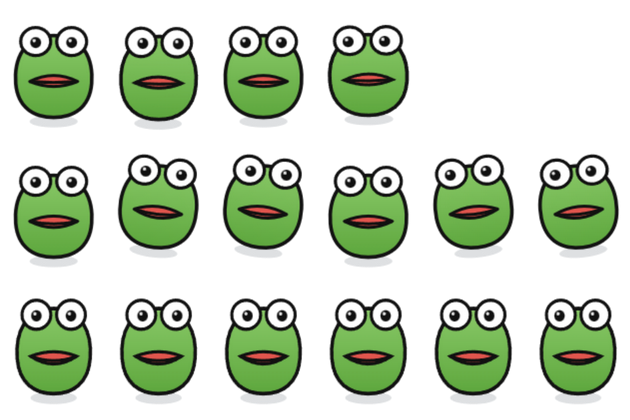
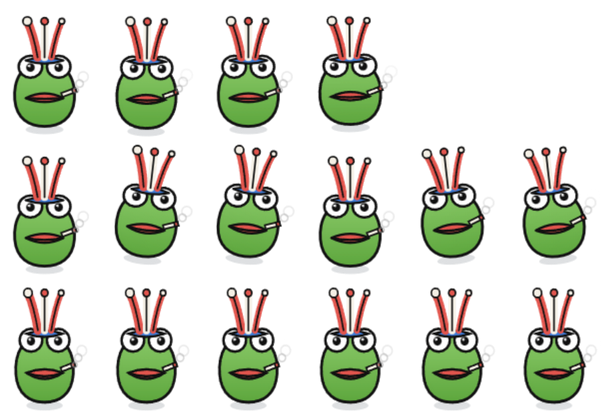
给抽象形象加装饰 + 新增学术企鹅
加装饰（原来只有一张脸，太空）：
  滑稽   墨镜推到额头上 + 脖子上金链子
  狗头   墨镜压在眼上 + 嘴里叼根骨头
  悲伤蛙 戴小丑帽（呼应「小丑竟是我自己」）+ 叼烟吐圈
  可达鸭 头顶冒问号（越慌越多）+ 旁边飞汗滴

新增学术企鹅：
  黑背白肚的企鹅 + 圆框金丝眼镜 + 熬夜的黑眼圈
  头上博士帽（方板 + 金色流苏，流苏会随呼吸晃）
  右翅举着一块大的「accepted」牌子（绿字 + 下划线）
  欢呼/跳舞时头顶撒纸屑

diff --git a/build/make-skins.js b/build/make-skins.js
@@ -969,6 +969,35 @@ function drawHuaji(ctx, q, p, kind) {
   ctx.fillStyle = 'rgba(255,120,110,.45)';
   ctx.beginPath(); ctx.ellipse(-27, -4, 8, 5.5, 0, 0, TAU); ctx.fill();
   ctx.beginPath(); ctx.ellipse(27, -4, 8, 5.5, 0, 0, TAU); ctx.fill();
+
+  /* 装饰：墨镜推到额头上 */
+  [-1, 1].forEach(function (sg) {
+    ctx.beginPath(); ctx.ellipse(sg * 16, -44, 12, 7.6, sg * 0.16, 0, TAU);
+    const lg = ctx.createLinearGradient(sg * 4, -50, sg * 28, -38);
+    lg.addColorStop(0, '#3A3A46'); lg.addColorStop(1, '#0A0A0F');
+    ctx.fillStyle = lg; ctx.fill();
+    ctx.lineWidth = 2.6; ctx.strokeStyle = '#F2F2F8'; ctx.stroke();
+    ctx.save(); ctx.clip();
+    ctx.strokeStyle = 'rgba(255,255,255,.85)'; ctx.lineWidth = 2.6; ctx.lineCap = 'round';
+    ctx.beginPath(); ctx.moveTo(sg * 8, -36); ctx.lineTo(sg * 22, -52); ctx.stroke();
+    ctx.restore();
+  });
+  ctx.strokeStyle = '#F2F2F8'; ctx.lineWidth = 2.6;
+  ctx.beginPath(); ctx.moveTo(-5, -45); ctx.lineTo(5, -45); ctx.stroke();
+  ctx.strokeStyle = 'rgba(17,17,17,.45)'; ctx.lineWidth = 4;
+  ctx.beginPath(); ctx.moveTo(-28, -42); ctx.lineTo(-39, -46); ctx.stroke();
+  ctx.beginPath(); ctx.moveTo(28, -42); ctx.lineTo(39, -46); ctx.stroke();
+  /* 装饰：金链子 */
+  ctx.strokeStyle = '#8A6A10'; ctx.lineWidth = 5.5;
+  ctx.beginPath(); ctx.moveTo(-30, 22); ctx.quadraticCurveTo(0, 46, 30, 22); ctx.stroke();
+  for (let i = 0; i <= 8; i++) {
+    const t = i / 8, bx = -30 + t * 60, by = 22 + Math.sin(t * Math.PI) * 24;
+    ctx.beginPath(); ctx.arc(bx, by, 3.4, 0, TAU);
+    const cg = ctx.createRadialGradient(bx - 1, by - 1.2, 0.3, bx, by, 3.8);
+    cg.addColorStop(0, '#FFF6C0'); cg.addColorStop(0.5, '#F5C542'); cg.addColorStop(1, '#A87508');
+    ctx.fillStyle = cg; ctx.fill();
+    ctx.lineWidth = 1.1; ctx.strokeStyle = '#6B4A06'; ctx.stroke();
+  }
 }
 
 /* ============================================================ ⑦ 狗头 */
@@ -1021,6 +1050,43 @@ function drawDoge(ctx, q, p, kind) {
   ctx.fillStyle = '#FF8AA0';
   ctx.beginPath(); ctx.ellipse(0, 26 + wow * 4, 6, 5 + wow * 3, 0, 0, TAU); ctx.fill();
   ctx.lineWidth = 2.4; ctx.strokeStyle = LINE; ctx.stroke();
+
+  /* 装饰：墨镜（压在眼上，露出一点点眼神） */
+  [-1, 1].forEach(function (sg) {
+    ctx.beginPath();
+    ctx.moveTo(sg * 24, -22);
+    ctx.quadraticCurveTo(sg * 13, -28, sg * 4, -23);
+    ctx.quadraticCurveTo(sg * 3, -10, sg * 13, -6);
+    ctx.quadraticCurveTo(sg * 23, -5, sg * 25, -14);
+    ctx.closePath();
+    const lg = ctx.createLinearGradient(sg * 4, -26, sg * 25, -6);
+    lg.addColorStop(0, '#3A3A46'); lg.addColorStop(0.45, '#15151C'); lg.addColorStop(1, '#08080C');
+    ctx.fillStyle = lg; ctx.fill();
+    ctx.lineWidth = 2.6; ctx.strokeStyle = '#F2F2F8'; ctx.stroke();
+    ctx.save(); ctx.clip();
+    ctx.strokeStyle = 'rgba(255,255,255,.85)'; ctx.lineWidth = 3; ctx.lineCap = 'round';
+    ctx.beginPath(); ctx.moveTo(sg * 5, -5); ctx.lineTo(sg * 20, -28); ctx.stroke();
+    ctx.restore();
+  });
+  ctx.fillStyle = '#15151C';
+  ctx.beginPath(); ctx.rect(-4.5, -24, 9, 4); ctx.fill();
+  ctx.lineWidth = 2.2; ctx.strokeStyle = '#F2F2F8'; ctx.stroke();
+  ctx.strokeStyle = '#F2F2F8'; ctx.lineWidth = 2.6;
+  ctx.beginPath(); ctx.moveTo(-24, -18); ctx.lineTo(-35, -24); ctx.stroke();
+  ctx.beginPath(); ctx.moveTo(24, -18); ctx.lineTo(35, -24); ctx.stroke();
+  /* 装饰：嘴里叼根骨头 */
+  ctx.save();
+  ctx.translate(16, 14); ctx.rotate(0.45);
+  ctx.fillStyle = '#F5EEDC';
+  ctx.beginPath(); ctx.rect(0, -3.4, 22, 6.8); ctx.fill();
+  ctx.lineWidth = 2.4; ctx.strokeStyle = LINE; ctx.stroke();
+  [-1, 1].forEach(function (sg) {
+    ctx.beginPath(); ctx.arc(0, sg * 4.4, 4.2, 0, TAU); ctx.fill();
+    ctx.lineWidth = 2.2; ctx.strokeStyle = LINE; ctx.stroke();
+    ctx.beginPath(); ctx.arc(22, sg * 4.4, 4.2, 0, TAU); ctx.fill();
+    ctx.stroke();
+  });
+  ctx.restore();
 }
 
 /* ============================================================ ⑧ 悲伤蛙 */
@@ -1061,6 +1127,46 @@ function drawPepe(ctx, q, p, kind) {
   ctx.lineWidth = 3; ctx.strokeStyle = LINE; ctx.stroke();
   ctx.strokeStyle = LINE; ctx.lineWidth = 3;
   ctx.beginPath(); ctx.moveTo(-24, 6); ctx.quadraticCurveTo(0, 16 - sad * 8, 24, 6); ctx.stroke();
+
+  /* 装饰：小丑帽（呼应「小丑竟是我自己」） */
+  ctx.save();
+  ctx.translate(0, -46);
+  ctx.beginPath();
+  ctx.moveTo(-24, 4);
+  ctx.quadraticCurveTo(0, -4, 24, 4);
+  ctx.quadraticCurveTo(0, 12, -24, 4);
+  ctx.closePath();
+  ctx.fillStyle = '#3E7BD6'; ctx.fill();
+  ctx.lineWidth = 2.8; ctx.strokeStyle = LINE; ctx.stroke();
+  for (let i = 0; i < 3; i++) {
+    ctx.beginPath();
+    const k = (i - 1) * 0.55;
+    ctx.moveTo(k * 16, 0);
+    ctx.quadraticCurveTo(k * 26, -30, k * 40, -46);
+    ctx.lineWidth = 11 - i * 1.4; ctx.lineCap = 'round';
+    ctx.strokeStyle = i % 2 ? '#F5F0E6' : '#E2564E'; ctx.stroke();
+    ctx.lineWidth = 2.2; ctx.strokeStyle = LINE; ctx.stroke();
+    ctx.beginPath(); ctx.arc(k * 40, -46, 5.6 - i, 0, TAU);
+    ctx.fillStyle = ['#F5F0E6', '#E2564E', '#F5F0E6'][i]; ctx.fill();
+    ctx.lineWidth = 2.2; ctx.strokeStyle = LINE; ctx.stroke();
+  }
+  ctx.restore();
+  /* 装饰：叼烟 + 烟圈 */
+  ctx.save();
+  ctx.translate(22, 2); ctx.rotate(-0.35);
+  ctx.fillStyle = '#F7F2E6';
+  ctx.beginPath(); ctx.rect(0, -2.6, 19, 5.2); ctx.fill();
+  ctx.lineWidth = 2.2; ctx.strokeStyle = LINE; ctx.stroke();
+  ctx.fillStyle = '#E2574C';
+  ctx.beginPath(); ctx.rect(14.5, -2.6, 4.5, 5.2); ctx.fill(); ctx.stroke();
+  ctx.restore();
+  for (let i = 0; i < 3; i++) {
+    const t = (p * 2 + i * 0.33) % 1;
+    ctx.globalAlpha = (1 - t) * 0.6;
+    ctx.strokeStyle = '#9A9A9A'; ctx.lineWidth = 2;
+    ctx.beginPath(); ctx.arc(40 + t * 14, -4 - t * 26, 3 + t * 5, 0, TAU); ctx.stroke();
+  }
+  ctx.globalAlpha = 1;
 }
 
 /* ============================================================ ⑨ 可达鸭 */
@@ -1123,10 +1229,191 @@ function drawPsyduck(ctx, q, p, kind) {
       ctx.stroke();
     }
   });
+
+  /* 装饰：头顶冒问号（越慌问号越多） */
+  const qn = kind === 'idle' ? 2 : 3;
+  for (let i = 0; i < qn; i++) {
+    const t = (p * 1.2 + i * 0.33) % 1;
+    const qx = 34 + i * 11 + t * 5, qy = -50 - i * 13 - t * 8;
+    ctx.globalAlpha = Math.min(1, (1 - t) * 1.6);
+    ctx.fillStyle = '#F5C518';
+    ctx.font = 'bold ' + (16 + i * 3) + 'px "Microsoft YaHei",sans-serif';
+    ctx.textAlign = 'center'; ctx.textBaseline = 'middle';
+    ctx.lineWidth = 3; ctx.strokeStyle = LINE;
+    ctx.strokeText('?', qx, qy);
+    ctx.fillText('?', qx, qy);
+  }
+  ctx.globalAlpha = 1;
+  /* 装饰：汗滴 */
+  const sweat = (p * 1.6) % 1;
+  ctx.globalAlpha = 1 - sweat;
+  ctx.fillStyle = '#8FD0EC';
+  ctx.beginPath();
+  ctx.moveTo(-40, -26 + sweat * 14);
+  ctx.quadraticCurveTo(-44, -18 + sweat * 14, -40, -14 + sweat * 14);
+  ctx.quadraticCurveTo(-36, -18 + sweat * 14, -40, -26 + sweat * 14);
+  ctx.closePath(); ctx.fill();
+  ctx.lineWidth = 1.8; ctx.strokeStyle = '#4E9CC4'; ctx.stroke();
+  ctx.globalAlpha = 1;
+}
+
+/* ============================================================ ⑩ 学术企鹅 */
+function drawPenguin(ctx, q, p, kind) {
+  const LINE = '#111111';
+  const s1 = Math.sin(p * TAU);
+  const cheer = kind === 'cheer' ? 1 : kind === 'dance' ? 0.6 : 0.25;
+  shadow(ctx, 50, 28);
+
+  /* 橙脚 */
+  [-1, 1].forEach(function (sg) {
+    ctx.fillStyle = '#F2A81B';
+    ctx.beginPath(); ctx.ellipse(sg * 14, 48, 13, 7, 0, 0, TAU); ctx.fill();
+    ctx.lineWidth = 2.6; ctx.strokeStyle = LINE; ctx.stroke();
+  });
+
+  /* 身体：黑背 */
+  const bg = ctx.createLinearGradient(0, -36, 0, 42);
+  bg.addColorStop(0, '#2A2A33'); bg.addColorStop(1, '#141419');
+  ctx.fillStyle = bg;
+  ctx.beginPath();
+  ctx.moveTo(0, -36);
+  ctx.bezierCurveTo(26, -36, 32, -10, 30, 16);
+  ctx.bezierCurveTo(28, 40, -28, 40, -30, 16);
+  ctx.bezierCurveTo(-32, -10, -26, -36, 0, -36);
+  ctx.closePath(); ctx.fill();
+  ctx.lineWidth = 3; ctx.strokeStyle = LINE; ctx.stroke();
+
+  /* 白肚子 */
+  ctx.fillStyle = '#FAFAFA';
+  ctx.beginPath(); ctx.ellipse(0, 6, 20, 25, 0, 0, TAU); ctx.fill();
+  ctx.lineWidth = 2.2; ctx.strokeStyle = 'rgba(17,17,17,.35)'; ctx.stroke();
+
+  /* 圆框眼镜（学术感） */
+  ctx.strokeStyle = '#C9A227'; ctx.lineWidth = 2.6;
+  ctx.beginPath(); ctx.arc(-12, -18, 10, 0, TAU); ctx.stroke();
+  ctx.beginPath(); ctx.arc(12, -18, 10, 0, TAU); ctx.stroke();
+  ctx.beginPath(); ctx.moveTo(-2, -19); ctx.lineTo(2, -19); ctx.stroke();
+
+  /* 眼睛：熬夜学术眼 */
+  ctx.fillStyle = '#FFFFFF';
+  ctx.beginPath(); ctx.arc(-12, -18, 8, 0, TAU); ctx.fill();
+  ctx.beginPath(); ctx.arc(12, -18, 8, 0, TAU); ctx.fill();
+  ctx.fillStyle = '#111111';
+  ctx.beginPath(); ctx.arc(-12 + s1 * 1.4, -17, 3.4, 0, TAU); ctx.fill();
+  ctx.beginPath(); ctx.arc(12 + s1 * 1.4, -17, 3.4, 0, TAU); ctx.fill();
+  ctx.fillStyle = 'rgba(255,255,255,.9)';
+  ctx.beginPath(); ctx.arc(-13 + s1 * 1.4, -18.4, 1.2, 0, TAU); ctx.fill();
+  ctx.beginPath(); ctx.arc(11 + s1 * 1.4, -18.4, 1.2, 0, TAU); ctx.fill();
+  /* 黑眼圈（熬夜赶稿） */
+  ctx.strokeStyle = 'rgba(120,110,140,.55)'; ctx.lineWidth = 2.4;
+  ctx.beginPath(); ctx.arc(-12, -14, 7.4, 0.15 * Math.PI, 0.85 * Math.PI); ctx.stroke();
+  ctx.beginPath(); ctx.arc(12, -14, 7.4, 0.15 * Math.PI, 0.85 * Math.PI); ctx.stroke();
+
+  /* 橙嘴 */
+  ctx.fillStyle = '#F2A81B';
+  ctx.beginPath();
+  ctx.moveTo(-8, -6); ctx.lineTo(8, -6); ctx.lineTo(0, 4);
+  ctx.closePath(); ctx.fill();
+  ctx.lineWidth = 2.4; ctx.strokeStyle = LINE; ctx.stroke();
+
+  /* 博士帽 */
+  ctx.fillStyle = '#1B1B22';
+  ctx.beginPath();                       // 帽筒
+  ctx.moveTo(-14, -40); ctx.lineTo(14, -40);
+  ctx.lineTo(11, -52); ctx.lineTo(-11, -52);
+  ctx.closePath(); ctx.fill();
+  ctx.lineWidth = 2.8; ctx.strokeStyle = LINE; ctx.stroke();
+  ctx.beginPath();                       // 方板
+  ctx.moveTo(0, -66); ctx.lineTo(32, -54);
+  ctx.lineTo(0, -44); ctx.lineTo(-32, -54);
+  ctx.closePath();
+  const mg = ctx.createLinearGradient(0, -66, 0, -44);
+  mg.addColorStop(0, '#33333D'); mg.addColorStop(1, '#16161B');
+  ctx.fillStyle = mg; ctx.fill();
+  ctx.lineWidth = 3; ctx.strokeStyle = LINE; ctx.stroke();
+  ctx.strokeStyle = 'rgba(255,255,255,.35)'; ctx.lineWidth = 1.6;
+  ctx.beginPath(); ctx.moveTo(-24, -55); ctx.lineTo(0, -62); ctx.stroke();
+  /* 流苏 */
+  ctx.strokeStyle = '#E5B93C'; ctx.lineWidth = 3; ctx.lineCap = 'round';
+  ctx.beginPath();
+  ctx.moveTo(30, -54);
+  ctx.quadraticCurveTo(38 + s1 * 3, -46, 34 + s1 * 4, -32);
+  ctx.stroke();
+  ctx.fillStyle = '#F0C43A';
+  ctx.beginPath(); ctx.arc(34 + s1 * 4, -30, 4.4, 0, TAU); ctx.fill();
+  ctx.lineWidth = 2; ctx.strokeStyle = '#8A6A12'; ctx.stroke();
+
+  /* 左翅：垂着 */
+  ctx.fillStyle = '#1B1B22';
+  ctx.beginPath(); ctx.ellipse(-30, 10, 8, 17, -0.2, 0, TAU); ctx.fill();
+  ctx.lineWidth = 2.6; ctx.strokeStyle = LINE; ctx.stroke();
+
+  /* 右翅：举起牌子（越兴奋举越高） */
+  const lift = q.arm * 10;
+  ctx.save();
+  ctx.translate(26, 4 - lift);
+  ctx.rotate(-0.5 - q.arm * 0.15);
+  ctx.fillStyle = '#1B1B22';
+  ctx.beginPath(); ctx.ellipse(0, 0, 8, 15, 0.3, 0, TAU); ctx.fill();
+  ctx.lineWidth = 2.6; ctx.strokeStyle = LINE; ctx.stroke();
+  /* 牌杆 */
+  ctx.strokeStyle = '#B98B52'; ctx.lineWidth = 5; ctx.lineCap = 'round';
+  ctx.beginPath(); ctx.moveTo(2, -6); ctx.lineTo(12, -46); ctx.stroke();
+  ctx.lineWidth = 2; ctx.strokeStyle = '#6B4A2A';
+  ctx.beginPath(); ctx.moveTo(2, -6); ctx.lineTo(12, -46); ctx.stroke();
+  ctx.restore();
+
+  /* ---- 大牌子 ---- */
+  ctx.save();
+  ctx.translate(38, -56 - lift * 0.5);
+  ctx.rotate(-0.06);
+  const BW = 34, BH = 15;                 // 半宽 / 半高
+  ctx.beginPath();
+  ctx.moveTo(-BW + 3, -BH);
+  ctx.lineTo(BW - 3, -BH); ctx.quadraticCurveTo(BW, -BH, BW, -BH + 3);
+  ctx.lineTo(BW, BH - 3); ctx.quadraticCurveTo(BW, BH, BW - 3, BH);
+  ctx.lineTo(-BW + 3, BH); ctx.quadraticCurveTo(-BW, BH, -BW, BH - 3);
+  ctx.lineTo(-BW, -BH + 3); ctx.quadraticCurveTo(-BW, -BH, -BW + 3, -BH);
+  ctx.closePath();
+  const sg2 = ctx.createLinearGradient(0, -BH, 0, BH);
+  sg2.addColorStop(0, '#FFFFFF'); sg2.addColorStop(1, '#EFEFE6');
+  ctx.fillStyle = sg2; ctx.fill();
+  ctx.lineWidth = 3.2; ctx.strokeStyle = LINE; ctx.stroke();
+  /* 牌子四角的小图钉 */
+  ctx.fillStyle = '#C9A227';
+  [[-BW + 5, -BH + 5], [BW - 5, -BH + 5], [-BW + 5, BH - 5], [BW - 5, BH - 5]].forEach(function (k) {
+    ctx.beginPath(); ctx.arc(k[0], k[1], 1.8, 0, TAU); ctx.fill();
+  });
+  /* accepted 字样 */
+  ctx.fillStyle = '#159C4B';
+  ctx.font = 'bold 19px "Arial Black","Segoe UI",Arial,sans-serif';
+  ctx.textAlign = 'center'; ctx.textBaseline = 'middle';
+  ctx.fillText('accepted', 0, 0.5);
+  /* 底下一道绿色下划线，像批注 */
+  ctx.strokeStyle = '#159C4B'; ctx.lineWidth = 2.4; ctx.lineCap = 'round';
+  ctx.beginPath(); ctx.moveTo(-26, 8.5); ctx.lineTo(26, 8.5); ctx.stroke();
+  ctx.restore();
+
+  /* 欢呼时头顶撒几片纸屑 */
+  if (kind !== 'idle') {
+    const rnd = [0.15, 0.45, 0.75];
+    rnd.forEach(function (t0, i) {
+      const t = (p * 1.5 + t0) % 1;
+      ctx.globalAlpha = 1 - t;
+      ctx.fillStyle = ['#E2564E', '#F0C43A', '#3E7BD6'][i];
+      ctx.save();
+      ctx.translate(-30 + i * 12 - t * 8, -60 + t * 40);
+      ctx.rotate(t * 6 + i);
+      ctx.fillRect(-3.4, -2, 6.8, 4);
+      ctx.restore();
+    });
+    ctx.globalAlpha = 1;
+  }
 }
 
 /* ============================================================ 出图 */
 const SKINS = [
+  { id: 'penguin', name: '学术企鹅', author: '抽象', draw: drawPenguin },
   { id: 'huaji', name: '滑稽', author: '抽象', draw: drawHuaji },
   { id: 'doge', name: '狗头', author: '抽象', draw: drawDoge },
   { id: 'pepe', name: '悲伤蛙', author: '抽象', draw: drawPepe },
@@ -1141,8 +1428,8 @@ const SKINS = [
 function pageJS() {
   return `var TAU=Math.PI*2;
 ${shadow}${circle}${oval}${rrect}${eye}${limb}${mouthOpen}${teeth}${poseFor}
-${drawDog}${drawDragon}${drawPanda}${drawSponge}${drawStar}${drawHuaji}${drawDoge}${drawPepe}${drawPsyduck}
-var DRAWS={dog:drawDog,dragon:drawDragon,panda:drawPanda,sponge:drawSponge,star:drawStar,huaji:drawHuaji,doge:drawDoge,pepe:drawPepe,psyduck:drawPsyduck};
+${drawDog}${drawDragon}${drawPanda}${drawSponge}${drawStar}${drawPenguin}${drawHuaji}${drawDoge}${drawPepe}${drawPsyduck}
+var DRAWS={dog:drawDog,dragon:drawDragon,panda:drawPanda,sponge:drawSponge,star:drawStar,penguin:drawPenguin,huaji:drawHuaji,doge:drawDoge,pepe:drawPepe,psyduck:drawPsyduck};
 window.CELLW=${PROBE}; window.CELLH=${PROBE};
 window.SCALE=0.8; window.OFFX=0; window.OFFY=0;
 window.render=function(id){
